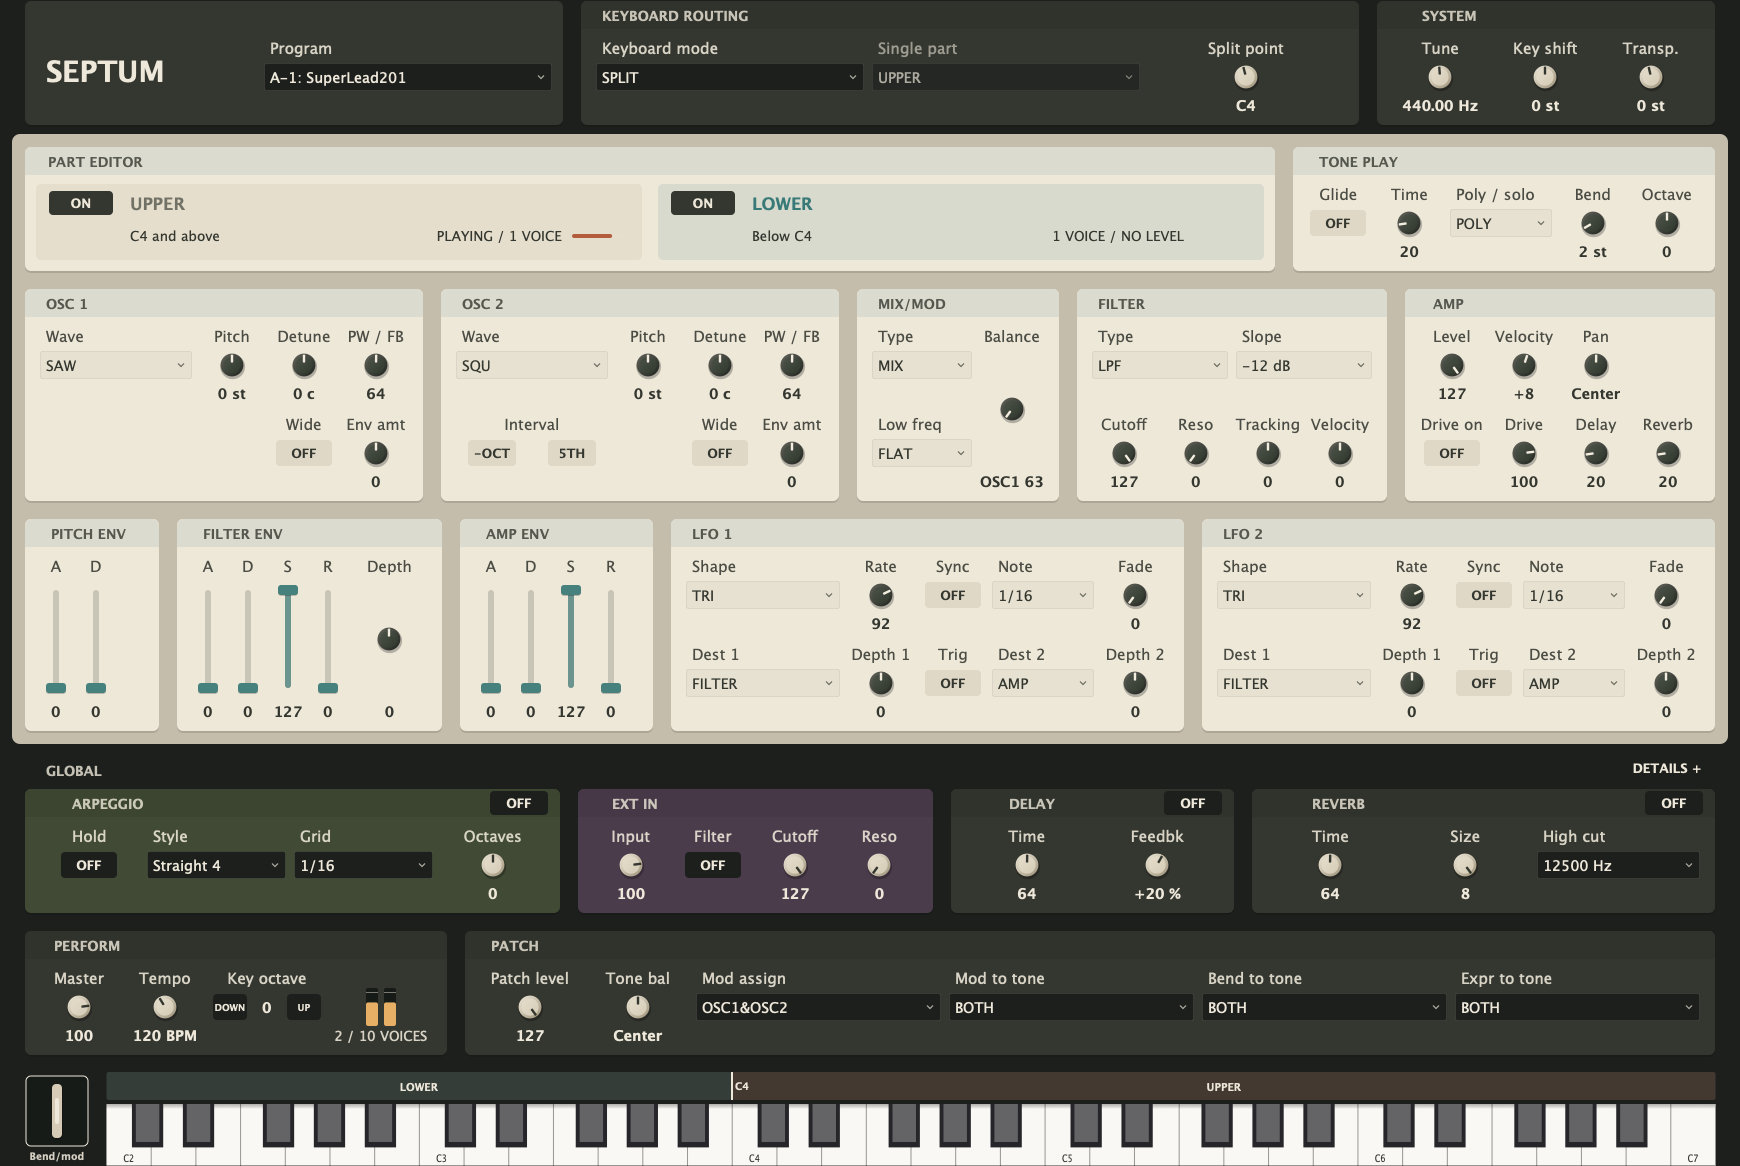
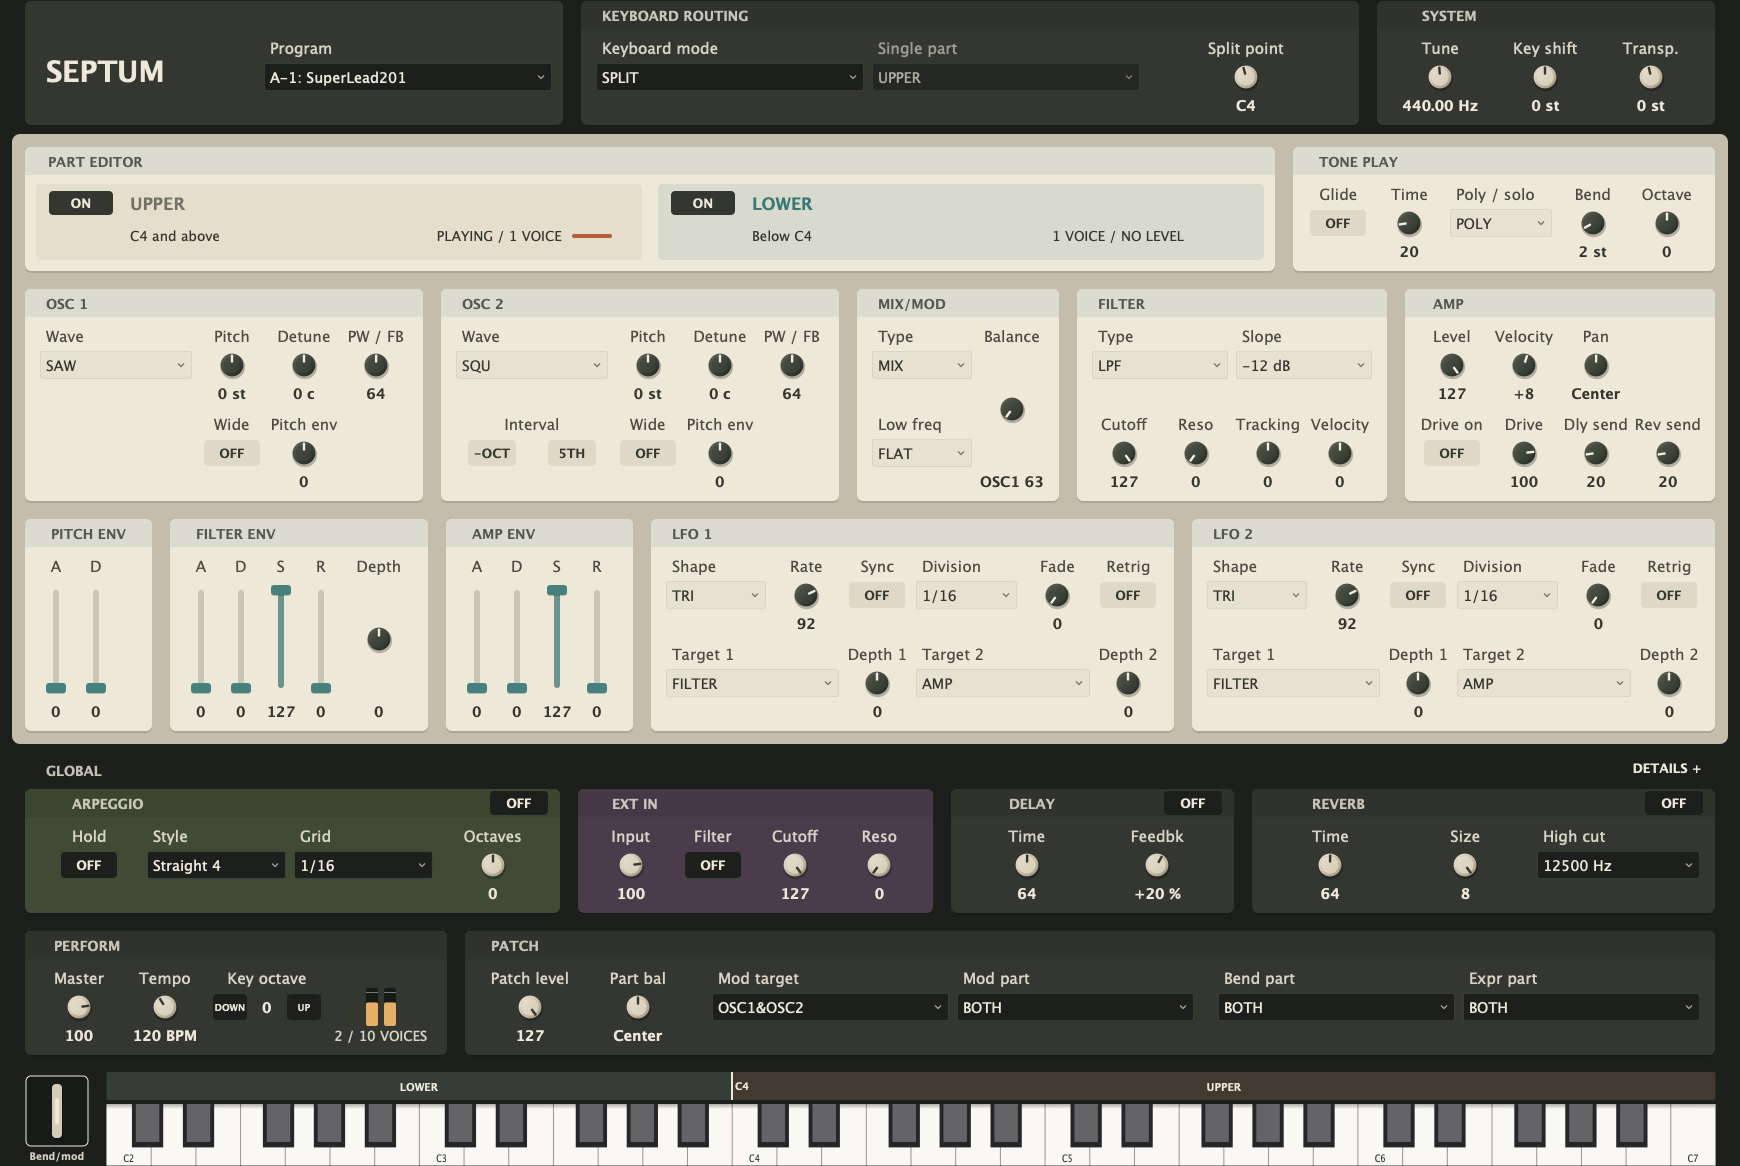
style(ui): clarify control groups and routing

diff --git a/Source/PluginEditor.cpp b/Source/PluginEditor.cpp
@@ -104,14 +104,14 @@ void layoutControlCell (juce::Component& component, juce::Label& caption,
 
 int labelTextLeft (const juce::Label& label)
 {
-    const auto area = label.getBorderSize().subtractedFrom (label.getBounds());
-    const float textWidth = juce::jmin ((float) area.getWidth(),
+    const auto area = label.getBorderSize().subtractedFrom (label.getBounds()).toFloat();
+    const float textWidth = juce::jmin (area.getWidth(),
         juce::GlyphArrangement::getStringWidth (label.getFont(), label.getText()));
     if (label.getJustificationType().testFlags (juce::Justification::horizontallyCentred))
         return juce::roundToInt (area.getX() + (area.getWidth() - textWidth) * 0.5f);
     if (label.getJustificationType().testFlags (juce::Justification::right))
         return juce::roundToInt (area.getRight() - textWidth);
-    return area.getX();
+    return juce::roundToInt (area.getX());
 }
 
 void paintPanelSurface (juce::Graphics& g, juce::Rectangle<int> bounds, juce::Colour surface)
@@ -586,7 +586,7 @@ SeptumAudioProcessorEditor::SeptumAudioProcessorEditor (
     auto* osc1 = section ("OSC 1", Band::Voice);
     osc1->rowCounts = { 4, 2 };
     osc1->fixedColumns = { wideComboCell, knobCell, knobCell, knobCell };
-    osc1->positions = { { { 0 }, { 1 }, { 2 }, { 3 } }, { { 2 }, { 3 } } };
+    osc1->positions = { { { 0 }, { 1 }, { 2 }, { 3 } }, { { 1 }, { 2 } } };
     addControl (*osc1, "osc1_wave", "WAVE", Style::WideCombo);
     addControl (*osc1, "osc1_pitch", "PITCH", Style::Knob, true, " st");
     addControl (*osc1, "osc1_detune", "DETUNE", Style::Knob, true, " c");
@@ -599,7 +599,7 @@ SeptumAudioProcessorEditor::SeptumAudioProcessorEditor (
     osc2->fixedColumns = { wideComboCell / 2, wideComboCell / 2,
                            knobCell, knobCell, knobCell };
     osc2->positions = { { { 0, 2 }, { 2 }, { 3 }, { 4 } },
-                       { { 0 }, { 1 }, { 3 }, { 4 } } };
+                       { { 0 }, { 1 }, { 2 }, { 3 } } };
     addControl (*osc2, "osc2_wave", "WAVE", Style::WideCombo);
     addControl (*osc2, "osc2_pitch", "PITCH", Style::Knob, true, " st");
     addControl (*osc2, "osc2_detune", "DETUNE", Style::Knob, true, " c");
@@ -699,17 +699,22 @@ SeptumAudioProcessorEditor::SeptumAudioProcessorEditor (
     {
         const juce::String prefix = "lfo" + juce::String (lfo) + "_";
         auto* lfoSection = section ("LFO " + juce::String (lfo), Band::Modulation);
-        lfoSection->rowCounts = { 5, 5 };
-        lfoSection->fixedColumns = { wideComboCell, knobCell, toggleCell, comboCell, knobCell };
-        addControl (*lfoSection, prefix + "shape", "SHAPE", Style::WideCombo);
+        // Source and timing occupy the top row. Each target stays beside
+        // its depth below, with matching widths for the two routing pairs.
+        lfoSection->rowCounts = { 6, 4 };
+        lfoSection->fixedColumns = { comboCell, knobCell, toggleCell,
+                                     comboCell, knobCell, toggleCell };
+        lfoSection->positions = { { { 0 }, { 1 }, { 2 }, { 3 }, { 4 }, { 5 } },
+                                 { { 0, 2 }, { 2 }, { 3, 2 }, { 5 } } };
+        addControl (*lfoSection, prefix + "shape", "SHAPE", Style::Combo);
         addControl (*lfoSection, prefix + "rate", "RATE", Style::Knob);
         addControl (*lfoSection, prefix + "sync", "SYNC", Style::Toggle);
-        addControl (*lfoSection, prefix + "sync_note", "NOTE", Style::Combo);
+        addControl (*lfoSection, prefix + "sync_note", "DIVISION", Style::Combo);
         addControl (*lfoSection, prefix + "fade", "FADE", Style::Knob);
-        addControl (*lfoSection, prefix + "dest1", "DEST 1", Style::WideCombo);
+        addControl (*lfoSection, prefix + "key_trig", "RETRIG", Style::Toggle);
+        addControl (*lfoSection, prefix + "dest1", "TARGET 1", Style::WideCombo);
         addControl (*lfoSection, prefix + "depth1", "DEPTH 1", Style::Knob);
-        addControl (*lfoSection, prefix + "key_trig", "TRIG", Style::Toggle);
-        addControl (*lfoSection, prefix + "dest2", "DEST 2", Style::Combo);
+        addControl (*lfoSection, prefix + "dest2", "TARGET 2", Style::WideCombo);
         addControl (*lfoSection, prefix + "depth2", "DEPTH 2", Style::Knob);
     }
 
@@ -809,20 +814,18 @@ SeptumAudioProcessorEditor::SeptumAudioProcessorEditor (
     // TONE OCT used to sit here and are Patch Tone bytes; they moved to
     // TONE PLAY with the rest of the per-tone play controls.
     addControl (*stripSection, "patch_level", "PATCH LEVEL", Style::Knob, false);
-    nameEnds (addControl (*stripSection, "tone_balance", "TONE BAL", Style::Knob,
+    nameEnds (addControl (*stripSection, "tone_balance", "PART BAL", Style::Knob,
                           false),
               "LOWER", "UPPER");
-    addControl (*stripSection, "mod_assign", "MOD ASSIGN", Style::Combo, false);
+    addControl (*stripSection, "mod_assign", "MOD TARGET", Style::Combo, false);
     // CONTROLLER DESTINATION: which tone each physical controller reaches.
     // These say UPPER/LOWER for a third reason again — not which tone is
-    // edited, not which tone sounds, but which tone a lever or a pedal gets
-    // to move — so each one names its controller and says TO TONE, which is
-    // what tells them apart from PATCH LEVEL and TONE BAL beside them. There
-    // is no group heading over them: the strip is one flat row of cells and
-    // this comment used to claim one the panel never painted.
-    addControl (*stripSection, "mod_dest", "MOD TO TONE", Style::Combo, false);
-    addControl (*stripSection, "bend_dest", "BEND TO TONE", Style::Combo, false);
-    addControl (*stripSection, "expr_dest", "EXPR TO TONE", Style::Combo, false);
+    // edited, not which tone sounds, but which part a lever or pedal affects.
+    // The modulation target and part form one pair, separated by space from
+    // the patch balance and the other controller destinations.
+    addControl (*stripSection, "mod_dest", "MOD PART", Style::Combo, false);
+    addControl (*stripSection, "bend_dest", "BEND PART", Style::Combo, false);
+    addControl (*stripSection, "expr_dest", "EXPR PART", Style::Combo, false);
 
     // ---- TONE PLAY, beside the part selector inside the part faceplate.
     // Five Patch *Tone* bytes about how the selected tone is played: they
@@ -1417,12 +1420,12 @@ SeptumAudioProcessorEditor::Control* SeptumAudioProcessorEditor::addControl (
         caption = caption.toUpperCase();
     else if (caption.length() > 1)
         caption = caption.substring (0, 1).toUpperCase() + caption.substring (1);
-    if (labelText == "P.ENV") caption = "Env amt";
+    if (labelText == "P.ENV") caption = "Pitch env";
     if (labelText == "PW/FB") caption = "PW / FB";
     if (labelText == "KEY FOLLOW") caption = "Tracking";
     if (labelText == "OVERDRIVE") caption = "Drive on";
-    if (labelText == "DLY SEND") caption = "Delay";
-    if (labelText == "REV SEND") caption = "Reverb";
+    if (labelText == "DLY SEND") caption = "Dly send";
+    if (labelText == "REV SEND") caption = "Rev send";
     if (labelText == "INPUT VOL") caption = "Input";
     if (labelText == "OCT RANGE") caption = "Octaves";
     if (labelText == "PORTAMENTO") caption = "Glide";
@@ -1877,15 +1880,18 @@ void SeptumAudioProcessorEditor::layoutPanel()
     // Keep patch knobs at a readable fixed width. The remaining space
     // belongs to the controller fields, using the standard field insets.
     int selectorCount = 0;
-    int selectorSpace = stripContent.getWidth();
+    int selectorSpace = stripContent.getWidth() - 2 * sectionGap;
     for (const auto* control : stripSection->controls)
         if (control->style == Style::Combo)
             ++selectorCount;
         else
             selectorSpace -= comboCell;
     int x = stripContent.getX();
+    int index = 0;
     for (auto* control : stripSection->controls)
     {
+        if (index == 2 || index == 4)
+            x += sectionGap;
         const bool selector = control->style == Style::Combo;
         const int cellWidth = selector ? selectorSpace / selectorCount : comboCell;
         if (selector)
@@ -1899,6 +1905,7 @@ void SeptumAudioProcessorEditor::layoutPanel()
         layoutControlCell (*control->component, *control->label, control->value.get(), cell,
                            selector ? cellWidth - 2 * fieldInset : knobDiameter,
                            selector ? comboHeight : knobDiameter);
+        ++index;
     }
 
     auto keyboardRow = juce::Rectangle<int> (24, keysTop + detailHeight, editorWidth - 48, keyboardHeight);

diff --git a/README.md b/README.md
@@ -122,7 +122,9 @@ system controls also occupy distinct cards. Larger labels, aligned value rows
 and explicit space between rows keep controls readable. Selector captions line
 up with their field text; knob and fader captions stay centred on their axes.
 Headers align with each panel's first caption, and fields share the same padding.
-LFO selectors, depth knobs and switches share consistent columns. Soft title
+Each LFO places its source and timing controls above two matching target/depth
+pairs. Oscillator Wide sits below Pitch, beside the explicitly named Pitch env
+amount. Soft title
 bars follow the active part's colour, with the same silkscreen lettering at
 80% opacity. Shared headers use a quieter shade of their fixed panel colour.
 Space separates the modules without divider rules, tab stripes or decorative
@@ -143,6 +145,9 @@ delay and reverb sit below the part panels;
 keyboard octave and tempo, while PATCH holds patch level, part balance and
 controller destinations. The delay and reverb sends remain in each part's
 **AMP** section because their levels belong to the selected part.
+Their **Dly send** and **Rev send** labels distinguish them from the shared effects.
+In PATCH, the modulation target and part form a pair, separated from the level
+controls and the bend/expression destinations by wider gaps.
 The keyboard extends to the bottom edge of the panel.
 
 The default view shows the main arpeggio, input and effects controls.
@@ -173,7 +178,7 @@ the ivory panels distinguishes editing, enable state and sound activity:
 
 Muting stops a part's dry signal and new effect sends. Existing shared delay
 and reverb tails continue to decay, so an OFF part can leave an audible tail.
-**TONE BAL** still balances the parts, and **MOD/BEND/EXPR TO TONE** still
+**PART BAL** still balances the parts, and **MOD/BEND/EXPR PART** still
 select which part each controller reaches.
 
 Sessions preserve both ON/OFF settings. Older sessions without these settings
